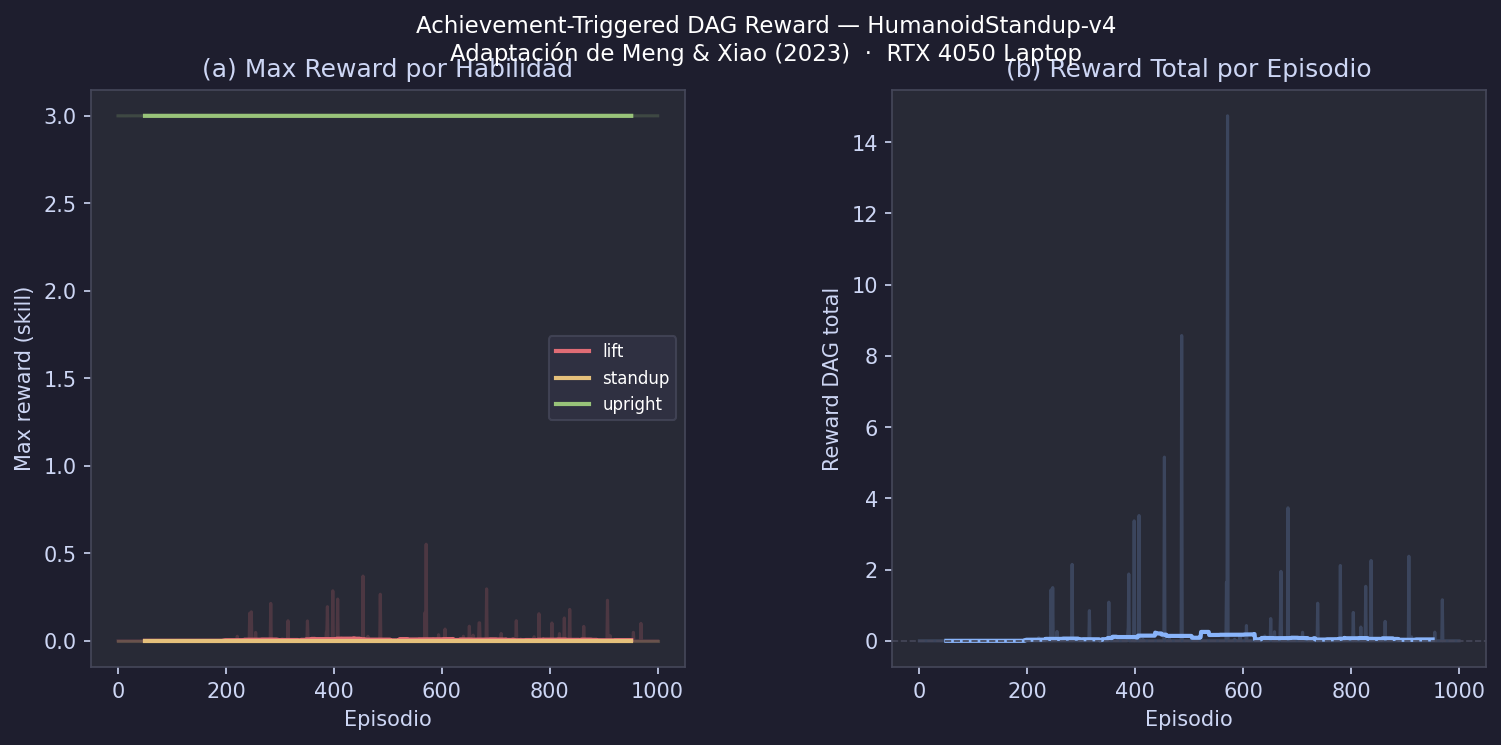
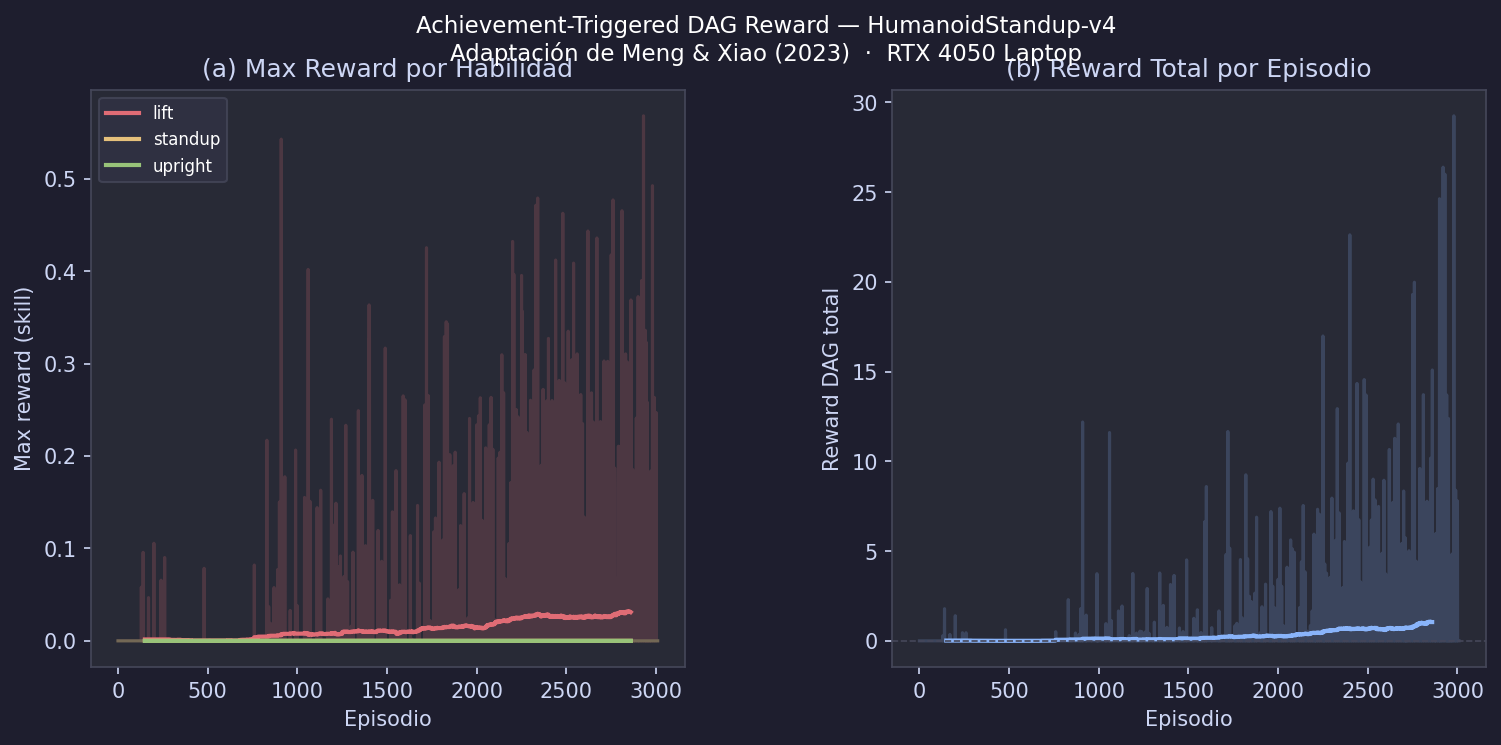
Completar README con resultados de la iteración 3 (3M steps, 10 envs)
lift muestra tendencia ascendente clara por primera vez (picos sostenidos
~0.4-0.55, promedio subiendo a ~0.3), y el reward total acumulado por
episodio también sube (picos hasta ~29). Pero standup/upright siguen en 0.0
durante las ~2900 episodios completos: z nunca superó 0.80. El achievement
(0,1) sí se activa esta vez (a diferencia de la iteración 1), pero como
r_standup permanece en 0 todo el entrenamiento, el bono a01*r_standup nunca
aporta nada — la mejora visible viene enteramente de sostener r_lift por
más tiempo, no del mecanismo de bono del DAG. Triplicar el presupuesto de
steps no fue suficiente para cruzar el umbral de pararse, consistente con
la brecha de ~1000x en steps frente al paper.

diff --git a/README.md b/README.md
@@ -96,8 +96,8 @@ brecha de muestras frente al paper (aunque sigue siendo ~1000x menor).
 
 ```
 dag_reward_humanoid.py             Script principal (rama main: DAG lineal de 3 nodos)
-results.png                        Curvas — entrenamiento con calibración corregida (1M steps, single-env)
-dag_humanoid_model.zip             Modelo de esa corrida
+results.png                        Curvas — calibración corregida, 3M steps, 10 envs en paralelo
+dag_humanoid_model.zip             Modelo de esa corrida (iteración 3)
 train_full.log                     Log de esa corrida
 
 results_v1_buggy.png               Curvas del primer entrenamiento (passing score mal calibrado)
@@ -197,11 +197,45 @@ Cambios aplicados en `dag_reward_humanoid.py`:
   la raíz — consistente con `r_lift` y `r_standup`, que sí usan altura y sí
   demostraron ser señales confiables.
 
-### Iteración 3 — paralelizado, 3M steps (10 envs)
+### Iteración 3 — paralelizado, 3M steps, 10 envs (`results.png` final)
 
-*(Pendiente de completar — corrida en curso. Actualizar con: si `standup`
-deja de estar en 0.0, si se alcanza `upright`, y comparación de
-`results.png` final contra las iteraciones 1 y 2.)*
+Mismo DAG lineal de 3 nodos y calibración de la iteración 2, pero con 3x más
+steps gracias a la paralelización (36 min de pared en vez de las ~4-5 horas
+que habría tomado en single-env). Resultado: **progreso de aprendizaje real
+y medible, pero sin cruzar el umbral de pararse del todo**.
+
+- `lift` (panel a, rojo) muestra una **tendencia ascendente clara** por
+  primera vez: pasa de picos esporádicos de ~0.1 a picos sostenidos de
+  ~0.4-0.55 hacia el final del entrenamiento, con el promedio suavizado
+  subiendo de ~0 a ~0.3. El agente sí está aprendiendo a levantar la pelvis
+  más y de forma más consistente.
+- `standup` y `upright` (naranja/verde) **siguen en 0.0 durante las ~2900
+  episodios completos** — la altura z del robot nunca superó 0.80 ni una
+  sola vez, igual que en las iteraciones 1 y 2. Triplicar el presupuesto de
+  steps no fue suficiente para cruzar ese umbral.
+- El reward total por episodio (panel b) también muestra una **tendencia
+  ascendente clara**, con picos que llegan hasta ~29 hacia el final. Esto
+  **no es un salto de recompensa instantánea** — `ep_total` es la suma
+  acumulada de reward a lo largo de todo el episodio (hasta 1000 steps), así
+  que un pico de 29 es compatible con sostener un `r_lift` modesto (~0.03)
+  durante buena parte del episodio, no con alcanzar `standup`. Confirma que
+  el agente aprendió a *sostener* más tiempo una pelvis ligeramente elevada,
+  no a completarse el pararse.
+- Nota técnica sobre el mecanismo DAG: como `lift` sí superó el nuevo
+  `PS=0.3` en muchos episodios, el achievement `(0,1)` sí se activó (a
+  diferencia de la iteración 1). Pero como `r_standup` (la recompensa cruda,
+  antes de cualquier multiplicador) permaneció en 0 todo el entrenamiento
+  (z nunca > 0.80), el bono `a01 * r_standup` fue **0 de todas formas** —
+  activar el achievement no ayuda si la recompensa que debía amplificar
+  nunca deja de ser cero. La mejora visible en este run viene enteramente de
+  `r_lift` sostenido, no del mecanismo de bono del DAG.
+
+**Conclusión honesta:** la combinación calibración-corregida + más
+paralelismo + 3x más steps sí produjo aprendizaje verificable (algo que la
+iteración 1 nunca mostró), pero el robot todavía no logra completar el
+pararse dentro de este presupuesto de muestras. Es consistente con la brecha
+de ~1000x en steps frente al paper (3M vs 2,000M) documentada en la tabla de
+comparación arriba.
 
 ## Rama experimental: DAG multi-path + ego-centric
 